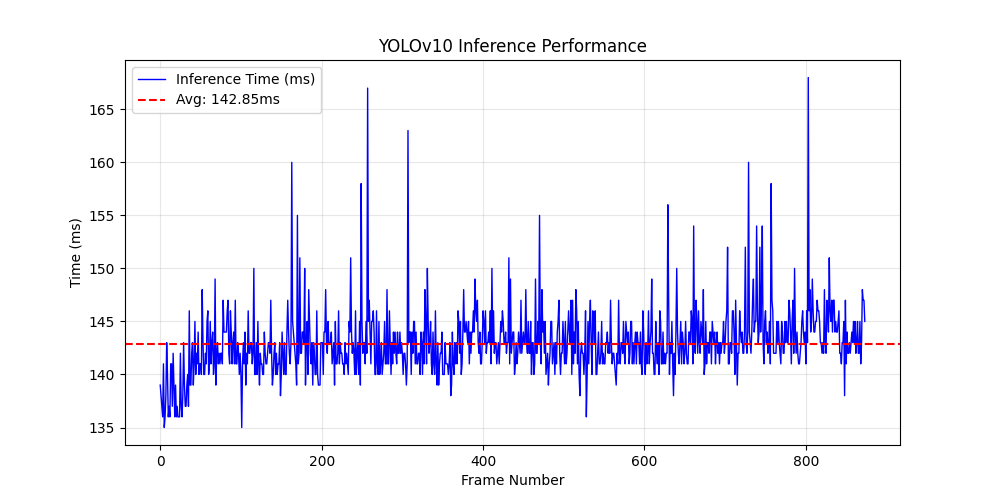
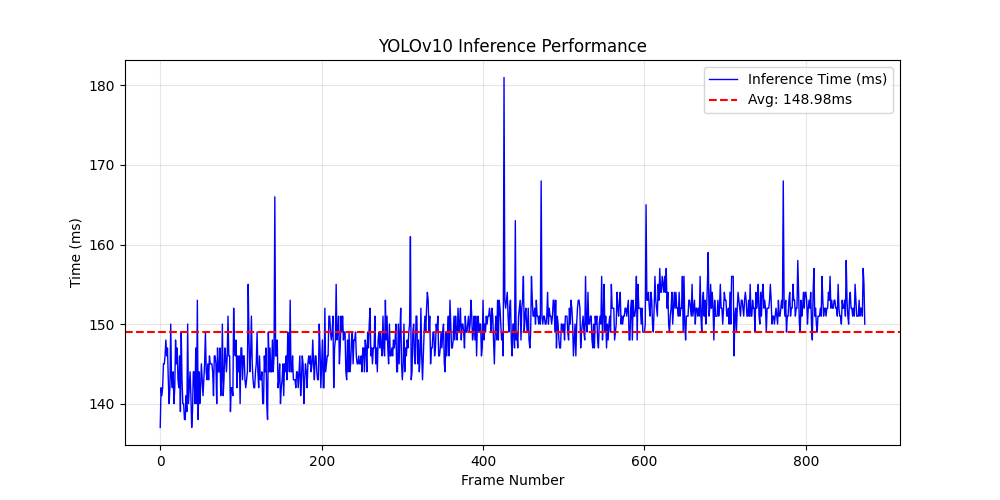
anotherone

diff --git a/track_bin.py b/track_bin.py
@@ -648,7 +648,7 @@ def main():
         plot_inference_performance(inference_times, args)
 
     # end of 2d ============================================
-    # print(stop_positions)
+    print(stop_positions)
     plot_world_trajectory(trajectory, stop_positions, save_path="./results/trajectory.png")
     if kf is not None:
         kf.plot_raw_vs_filtered_position(trajectory, trajectory_KF)

diff --git a/readme.md b/readme.md
@@ -261,9 +261,9 @@ The estimated ground-truth stops for the bin trajectory were extracted as 3D spa
 
 | Stop | X-Axis (m) | Y-Axis (m) | Z-Axis (m) |
 | :--- | :---: | :---: | :---: |
-| **Point A** |2.3683| $0$ |  0.73527 |
-| **Point B** | 4.0731 | -0.69335 | 0.57906 |
-| **Point C** | 3.8735 |  0.39961 | 0.76056 |
+| **Point A** | 2.1747| 0 |  0.78552 |
+| **Point B** | 3.876 | -0.6598 | 0.61636 |
+| **Point C** | 3.6745 |  0.37909, |  0.79084 |
 
 The computed RMSE between the GT and the estimated stop points are:
 